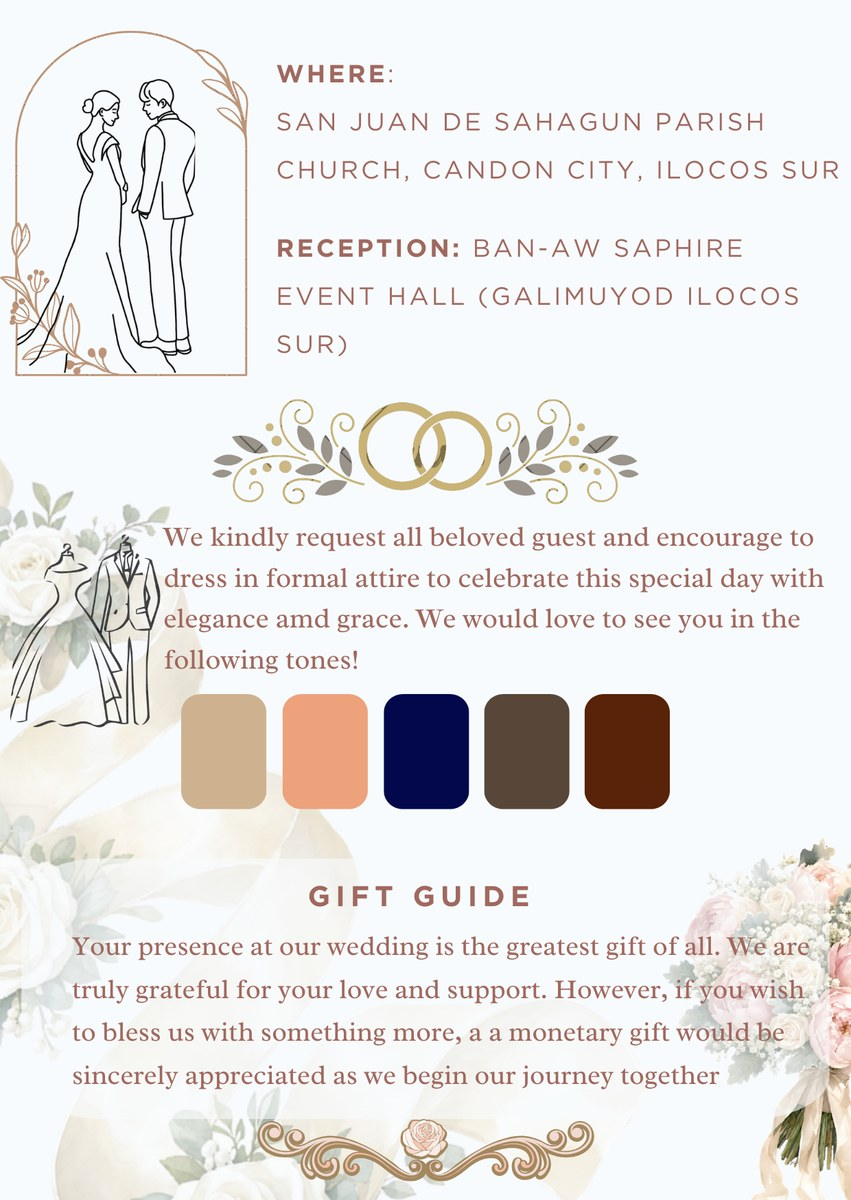
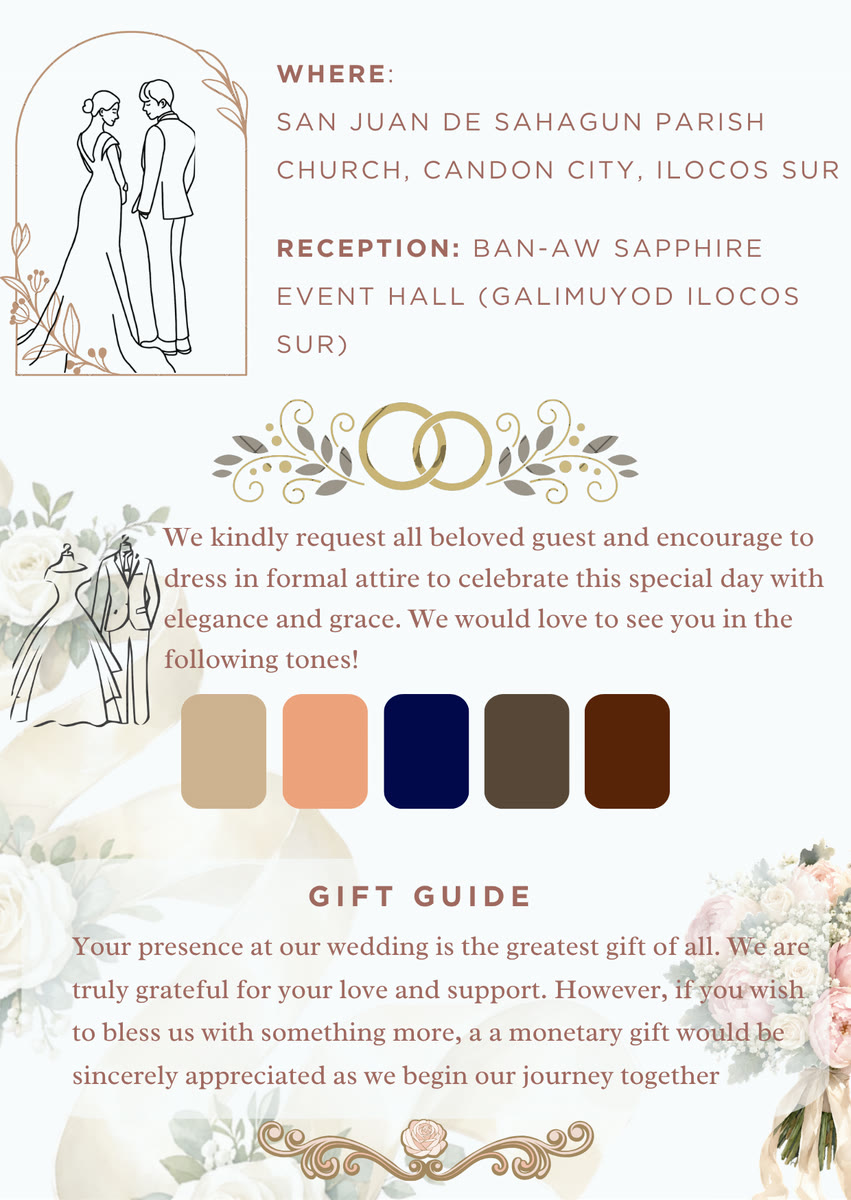
Add RSVP form to both invitations, backed by a Google Sheet
- Guests reply from the Details sheet: name, accept or decline, companions
  with names, optional mobile number and message; seats = 1 + companions
- rsvp/Code.gs is the Apps Script web app that records replies in a
  Responses sheet and keeps a Summary of attending, declined and seats per
  event; rsvp/README.md walks through the 5-minute setup
- A name may reply once per event; duplicates are rejected, while the
  device that sent the first reply can still change it
- rsvp-config.js holds the web app URL; while empty, the form stays hidden

Changed region(s): [[0.3361, 0.4933, 0.9471, 0.555], [0.7944, 0.185, 0.886, 0.2158], [0.2444, 0.5242, 0.275, 0.555]]

diff --git a/rsvp.js b/rsvp.js
@@ -1,0 +1,136 @@
+/* RSVP form, shared by the wedding and christening invitations.
+   Reads window.RSVP_URL (rsvp-config.js) and window.RSVP_EVENT ('wedding' | 'christening').
+   Posts JSON to the Google Apps Script web app and remembers the guest's answer on this device. */
+(() => {
+  const url = (window.RSVP_URL || '').trim();
+  const event = window.RSVP_EVENT || 'wedding';
+  const box = document.querySelector('.rsvp');
+  if (!url || !box) return;
+
+  const MAX = 10;
+  const storeKey = `rsvp:${event}`;
+  const h = (tag, attrs = {}, ...kids) => {
+    const el = document.createElement(tag);
+    for (const [k, v] of Object.entries(attrs)) { if (k === 'class') el.className = v; else if (k === 'text') el.textContent = v; else el.setAttribute(k, v); }
+    for (const k of kids) el.append(k);
+    return el;
+  };
+
+  /* Markup */
+  const form = h('form', { class: 'rsvp-form', novalidate: '' });
+  const nameIn = h('input', { name: 'name', autocomplete: 'name', required: '', maxlength: '80', placeholder: 'Full name' });
+  const yes = h('input', { type: 'radio', name: 'attending', value: 'yes', required: '' });
+  const no = h('input', { type: 'radio', name: 'attending', value: 'no' });
+  const countOut = h('output', { name: 'count', text: '0' });
+  const minus = h('button', { type: 'button', 'data-d': '-1', 'aria-label': 'Fewer guests', text: '−' });
+  const plus = h('button', { type: 'button', 'data-d': '1', 'aria-label': 'More guests', text: '+' });
+  const names = h('div', { class: 'rf-names' });
+  const seatsB = h('b', { text: '1' });
+  const companions = h('div', { class: 'rf-companions', hidden: '' },
+    h('div', { class: 'rf-field rf-step' }, h('span', { text: 'Guests coming with you' }), h('div', { class: 'rf-stepper' }, minus, countOut, plus)),
+    names,
+    h('p', { class: 'rf-seats' }, 'Seats to reserve for you: ', seatsB));
+  const phoneIn = h('input', { name: 'phone', type: 'tel', inputmode: 'tel', autocomplete: 'tel', maxlength: '40', placeholder: '09xx xxx xxxx' });
+  const msgIn = h('textarea', { name: 'message', rows: '2', maxlength: '500', placeholder: 'A note for the family' });
+  const submit = h('button', { class: 'rf-submit', type: 'submit', text: 'Send RSVP' });
+  const status = h('p', { class: 'rf-status', role: 'status', 'aria-live': 'polite' });
+  form.append(
+    h('label', { class: 'rf-field' }, h('span', { text: 'Your name' }), nameIn),
+    h('fieldset', { class: 'rf-choice' }, h('legend', { text: 'Will you be there?' }),
+      h('div', { class: 'opts' },
+        h('label', {}, yes, h('span', { text: 'Joyfully accept' })),
+        h('label', {}, no, h('span', { text: 'Regretfully decline' })))),
+    companions,
+    h('label', { class: 'rf-field' }, h('span', { text: 'Mobile number (optional)' }), phoneIn),
+    h('label', { class: 'rf-field' }, h('span', { text: 'Message (optional)' }), msgIn),
+    submit, status);
+  const done = h('div', { class: 'rf-done', hidden: '' });
+
+  const intro = box.querySelector('h3 + p') || box.querySelector('h3');
+  intro.after(done, form);
+  const firstContact = box.querySelector('.contact');
+  if (firstContact) firstContact.before(h('p', { class: 'rf-or', text: 'Questions? Message us directly.' }));
+
+  /* Companions stepper */
+  let count = 0;
+  function setCount(n, keep = []) {
+    count = Math.max(0, Math.min(MAX, n));
+    countOut.textContent = String(count);
+    minus.disabled = count === 0; plus.disabled = count === MAX;
+    const existing = [...names.querySelectorAll('input')].map(i => i.value);
+    names.replaceChildren(...Array.from({ length: count }, (_, i) =>
+      h('input', { name: 'companion', maxlength: '80', 'aria-label': `Name of guest ${i + 1}`, placeholder: `Name of guest ${i + 1}`, autocomplete: 'off', value: keep[i] ?? existing[i] ?? '' })));
+    seatsB.textContent = String(1 + count);
+  }
+  minus.addEventListener('click', () => setCount(count - 1));
+  plus.addEventListener('click', () => setCount(count + 1));
+  function syncAttending() { companions.hidden = !yes.checked; }
+  yes.addEventListener('change', syncAttending); no.addEventListener('change', syncAttending);
+  setCount(0);
+
+  /* Remembered answer */
+  function read() { try { return JSON.parse(localStorage.getItem(storeKey) || 'null'); } catch (e) { return null; } }
+  function write(v) { try { localStorage.setItem(storeKey, JSON.stringify(v)); } catch (e) {} }
+  function showDone(r) {
+    const when = r.at ? new Date(r.at).toLocaleDateString(undefined, { day: 'numeric', month: 'long' }) : '';
+    const line = r.attending === 'yes'
+      ? h('p', {}, 'Thank you, ', h('b', { text: r.name }), `! We have noted `, h('b', { text: `${r.seats} seat${r.seats === 1 ? '' : 's'}` }), ' for you.')
+      : h('p', {}, 'Thank you, ', h('b', { text: r.name }), '. We will miss you and have noted your reply.');
+    const edit = h('button', { type: 'button', text: 'Change my reply' });
+    edit.addEventListener('click', () => { done.hidden = true; form.hidden = false; nameIn.focus(); });
+    done.replaceChildren(line, h('p', { class: 'rf-status', text: when ? `Sent ${when}. You can change it any time.` : 'You can change it any time.' }), edit);
+    done.hidden = false; form.hidden = true;
+  }
+  const saved = read();
+  if (saved && saved.name) {
+    nameIn.value = saved.name; (saved.attending === 'yes' ? yes : no).checked = true; syncAttending();
+    setCount(saved.count || 0, saved.companions || []); phoneIn.value = saved.phone || ''; msgIn.value = saved.message || '';
+    showDone(saved);
+  }
+
+  /* Clear an error as soon as the guest starts fixing it */
+  form.addEventListener('input', () => {
+    if (status.classList.contains('err')) { status.className = 'rf-status'; status.textContent = ''; }
+    if (nameIn.value.trim()) nameIn.removeAttribute('aria-invalid');
+  });
+
+  /* Submit */
+  form.addEventListener('submit', async e => {
+    e.preventDefault();
+    status.className = 'rf-status'; status.textContent = '';
+    const name = nameIn.value.trim();
+    nameIn.setAttribute('aria-invalid', name ? 'false' : 'true');
+    if (!name) { status.classList.add('err'); status.textContent = 'Please tell us your name.'; nameIn.focus(); return; }
+    if (!yes.checked && !no.checked) { status.classList.add('err'); status.textContent = 'Please choose whether you can come.'; yes.focus(); return; }
+    const attending = yes.checked ? 'yes' : 'no';
+    const list = attending === 'yes' ? [...names.querySelectorAll('input')].map(i => i.value.trim()).filter(Boolean) : [];
+    /* Duplicate names within this one reply */
+    const norm = s => s.toLowerCase().replace(/\s+/g, ' ');
+    const seen = new Set([norm(name)]);
+    for (const n of list) {
+      if (seen.has(norm(n))) {
+        status.classList.add('err');
+        status.textContent = norm(n) === norm(name) ? 'You are already counted. Please list only the guests coming with you.' : `"${n}" is listed twice. Each guest only needs one seat.`;
+        [...names.querySelectorAll('input')].find(i => norm(i.value.trim()) === norm(n))?.focus();
+        return;
+      }
+      seen.add(norm(n));
+    }
+    const prev = read();
+    const payload = { event, name, attending, count: attending === 'yes' ? count : 0, companions: list, phone: phoneIn.value.trim(), message: msgIn.value.trim(), token: prev && prev.token || '' };
+    submit.disabled = true; status.textContent = 'Sending…';
+    try {
+      const res = await fetch(url, { method: 'POST', body: JSON.stringify(payload) });  // no custom headers: no CORS preflight
+      const data = await res.json();
+      if (!data.ok) { const e = new Error(data.error || 'The reply could not be saved.'); e.code = data.code; throw e; }
+      const rec = Object.assign({}, payload, { seats: data.seats, token: data.token || payload.token, at: Date.now() });
+      write(rec); showDone(rec);
+    } catch (err) {
+      status.classList.add('err');
+      status.textContent = err.code === 'duplicate'
+        ? `A reply under the name "${name}" was already sent. If that was you and your plans changed, please message us at the numbers below.`
+        : 'Sorry, your reply did not go through. Please try again, or message us at the numbers below.';
+      if (err.code === 'duplicate') { nameIn.setAttribute('aria-invalid', 'true'); nameIn.focus(); }
+    } finally { submit.disabled = false; }
+  });
+})();

diff --git a/rsvp.css b/rsvp.css
@@ -1,0 +1,39 @@
+/* RSVP form inside the Details sheet. Each page sets --rf-ink, --rf-soft, --rf-line, --rf-field, --rf-gold, --rf-font. */
+.rsvp-form{display:grid;gap:14px;margin:4px 0 16px}
+.rf-field{display:grid;gap:6px}
+.rf-field > span,.rf-choice legend{font:600 12px/1.3 var(--rf-font);letter-spacing:.04em;color:var(--rf-soft)}
+.rf-field input,.rf-field textarea{font:16px/1.4 var(--rf-font);color:var(--rf-ink);background:var(--rf-field);
+  border:1px solid var(--rf-line);border-radius:10px;padding:10px 12px;width:100%;box-sizing:border-box;min-height:44px}
+.rf-field textarea{resize:vertical}
+.rf-field input:focus-visible,.rf-field textarea:focus-visible,.rf-choice input:focus-visible + span{outline:2px solid var(--rf-gold);outline-offset:1px}
+.rf-field input[aria-invalid="true"]{border-color:#b3463a}
+.rf-choice{border:0;margin:0;padding:0;display:grid;gap:6px}
+.rf-choice .opts{display:grid;grid-template-columns:1fr 1fr;gap:8px}
+.rf-choice label{position:relative;display:block}
+.rf-choice input{position:absolute;opacity:0;inset:0;margin:0}
+.rf-choice span{display:flex;align-items:center;justify-content:center;min-height:44px;padding:8px 10px;text-align:center;
+  font:600 14px/1.25 var(--rf-font);color:var(--rf-ink);background:var(--rf-field);border:1px solid var(--rf-line);border-radius:10px;cursor:pointer}
+.rf-choice input:checked + span{background:var(--rf-ink);color:#fff;border-color:var(--rf-ink)}
+.rf-companions{display:grid;gap:10px;padding:12px;border-radius:12px;background:var(--rf-field);border:1px solid var(--rf-line)}
+.rf-step{display:flex;align-items:center;justify-content:space-between;gap:10px}
+.rf-stepper{display:inline-flex;align-items:center;gap:6px}
+.rf-stepper button{width:40px;height:40px;border-radius:999px;border:1px solid var(--rf-line);background:#fff;color:var(--rf-ink);font:600 20px/1 var(--rf-font);cursor:pointer}
+.rf-stepper button:disabled{opacity:.35;cursor:default}
+.rf-stepper output{min-width:28px;text-align:center;font:700 18px/1 var(--rf-font);color:var(--rf-ink);font-variant-numeric:tabular-nums}
+.rf-names{display:grid;gap:8px}
+.rf-names input{font:15px/1.4 var(--rf-font);color:var(--rf-ink);background:#fff;border:1px solid var(--rf-line);border-radius:10px;padding:9px 12px;width:100%;box-sizing:border-box;min-height:42px}
+.rf-seats{margin:0;font:14px/1.4 var(--rf-font);color:var(--rf-soft)}
+.rf-seats b{color:var(--rf-ink);font-weight:700}
+.rf-submit{font:600 14px/1 var(--rf-font);letter-spacing:.06em;text-transform:uppercase;color:#fff;background:var(--rf-ink);
+  border:1px solid var(--rf-ink);border-radius:999px;height:48px;padding:0 20px;cursor:pointer}
+.rf-submit:disabled{opacity:.6;cursor:default}
+.rf-submit:focus-visible{outline:2px solid var(--rf-gold);outline-offset:2px}
+.rf-status{margin:0;font:14px/1.45 var(--rf-font);color:var(--rf-soft);min-height:1.2em}
+.rf-status.ok{color:var(--rf-ink);font-weight:600}
+.rf-status.err{color:#b3463a}
+.rf-done{display:grid;gap:10px;padding:14px;border-radius:12px;background:var(--rf-field);border:1px solid var(--rf-line)}
+.rf-done p{margin:0;font:15px/1.45 var(--rf-font);color:var(--rf-ink)}
+.rf-done p b{font-weight:700}
+.rf-done button{justify-self:start;font:600 12px/1 var(--rf-font);letter-spacing:.06em;text-transform:uppercase;color:var(--rf-ink);
+  background:#fff;border:1px solid var(--rf-line);border-radius:999px;height:36px;padding:0 14px;cursor:pointer}
+.rf-or{margin:14px 0 2px;font:13px/1.4 var(--rf-font);color:var(--rf-soft)}

diff --git a/dedication/index.html b/dedication/index.html
@@ -29,6 +29,7 @@
     />
     <link rel="preconnect" href="https://fonts.googleapis.com" />
     <link rel="preconnect" href="https://fonts.gstatic.com" crossorigin />
+    <link rel="stylesheet" href="../rsvp.css" />
     <link
       rel="stylesheet"
       href="https://fonts.googleapis.com/css2?family=Fredoka:wght@400;500;600&family=Nunito:ital,wght@0,400;0,600;0,700;1,400&display=swap"
@@ -51,6 +52,12 @@
         --panel: #fbfdff;
         --f-display: "Fredoka", "Varela Round", "Nunito", system-ui, sans-serif;
         --f-body: "Nunito", "Avenir Next", "Segoe UI", system-ui, sans-serif;
+        --rf-ink: var(--slate);
+        --rf-soft: var(--slate-soft);
+        --rf-line: rgba(47, 74, 99, 0.22);
+        --rf-field: #fff;
+        --rf-gold: var(--gold-lo);
+        --rf-font: var(--f-body);
       }
       html,
       body {
@@ -877,7 +884,7 @@
           </div>
           <div>
             <dt>Reception</dt>
-            <dd>Ban-aw Saphire Event Hall, Galimuyod, Ilocos Sur</dd>
+            <dd>Ban-aw Sapphire Event Hall, Galimuyod, Ilocos Sur</dd>
           </div>
         </dl>
         <p class="outro">
@@ -931,7 +938,7 @@
           <div class="t">After<small>Reception</small></div>
           <div>
             <h3>Reception</h3>
-            <p>Ban-aw Saphire Event Hall, Galimuyod, Ilocos Sur</p>
+            <p>Ban-aw Sapphire Event Hall, Galimuyod, Ilocos Sur</p>
             <a
               class="link"
               target="_blank"
@@ -1417,11 +1424,16 @@
           location:
             "San Juan de Sahagun Parish Church, Candon City, Ilocos Sur",
           details:
-            "Christening of Kyle Quenzo 3:30 PM at San Juan de Sahagun Parish Church, Candon City.\nReception at Ban-aw Saphire Event Hall, Galimuyod, Ilocos Sur.",
+            "Christening of Kyle Quenzo 3:30 PM at San Juan de Sahagun Parish Church, Candon City.\nReception at Ban-aw Sapphire Event Hall, Galimuyod, Ilocos Sur.",
         });
         $("calLink").href =
           "https://calendar.google.com/calendar/render?" + q.toString();
       })();
     </script>
+    <script>
+      window.RSVP_EVENT = "christening";
+    </script>
+    <script src="../rsvp-config.js"></script>
+    <script src="../rsvp.js"></script>
   </body>
 </html>

diff --git a/index.html b/index.html
@@ -29,6 +29,7 @@
     />
     <link rel="preconnect" href="https://fonts.googleapis.com" />
     <link rel="preconnect" href="https://fonts.gstatic.com" crossorigin />
+    <link rel="stylesheet" href="rsvp.css" />
     <link
       rel="stylesheet"
       href="https://fonts.googleapis.com/css2?family=Cormorant+Garamond:ital,wght@0,400;0,500;0,600;1,400;1,500&family=Jost:wght@400;500&family=Pinyon+Script&display=swap"
@@ -54,6 +55,12 @@
         --f-serif:
           "Cormorant Garamond", "Cormorant", Garamond, "Times New Roman", serif;
         --f-ui: "Jost", "Avenir Next", "Segoe UI", system-ui, sans-serif;
+        --rf-ink: var(--rose-deep);
+        --rf-soft: var(--ink-soft);
+        --rf-line: rgba(126, 74, 64, 0.25);
+        --rf-field: var(--panel);
+        --rf-gold: var(--gold-lo);
+        --rf-font: var(--f-ui);
       }
       html,
       body {
@@ -700,7 +707,7 @@
           <div class="t">After<small>Reception</small></div>
           <div>
             <h3>Reception</h3>
-            <p>Ban-aw Saphire Event Hall, Galimuyod, Ilocos Sur</p>
+            <p>Ban-aw Sapphire Event Hall, Galimuyod, Ilocos Sur</p>
             <a
               class="link"
               target="_blank"
@@ -1175,11 +1182,16 @@
           location:
             "San Juan de Sahagun Parish Church, Candon City, Ilocos Sur",
           details:
-            "Ceremony 1:30 PM at San Juan de Sahagun Parish Church, Candon City.\nChild dedication of Kyle Quenzo 3:30 PM.\nReception at Ban-aw Saphire Event Hall, Galimuyod, Ilocos Sur.\nFormal attire.",
+            "Ceremony 1:30 PM at San Juan de Sahagun Parish Church, Candon City.\nChild dedication of Kyle Quenzo 3:30 PM.\nReception at Ban-aw Sapphire Event Hall, Galimuyod, Ilocos Sur.\nFormal attire.",
         });
         $("calLink").href =
           "https://calendar.google.com/calendar/render?" + q.toString();
       })();
     </script>
+    <script>
+      window.RSVP_EVENT = "wedding";
+    </script>
+    <script src="rsvp-config.js"></script>
+    <script src="rsvp.js"></script>
   </body>
 </html>

diff --git a/rsvp-config.js b/rsvp-config.js
@@ -1,0 +1,2 @@
+/* Paste the Google Apps Script web app URL here (see rsvp/README.md). Leave empty to hide the RSVP form. */
+window.RSVP_URL = "";

diff --git a/rsvp/README.md b/rsvp/README.md
@@ -1,0 +1,45 @@
+# RSVP setup
+
+Guests fill in the RSVP form inside the **Details** sheet of each invitation. Responses land in a
+Google Sheet you own. The Sheet's **Summary** tab shows, per event and in total, how many parties
+responded, how many are attending or declined, and how many seats to reserve.
+
+Until the web app URL is filled in, the invitations show only the contact numbers, so nothing
+breaks before setup.
+
+## One-time setup (about 5 minutes)
+
+1. Create a new Google Sheet at https://sheets.new and name it, for example, `RSVPs`.
+2. In the Sheet, open **Extensions > Apps Script**. Delete the sample code in `Code.gs`, paste the
+   contents of `rsvp/Code.gs` from this repo, and press **Save**.
+3. In the toolbar, choose the function **setup** and press **Run**. Approve the permission prompt
+   (it only touches this spreadsheet). This creates the `Responses` and `Summary` tabs.
+4. Press **Deploy > New deployment**. Click the gear next to "Select type" and choose **Web app**.
+   - Description: `rsvp`
+   - Execute as: **Me**
+   - Who has access: **Anyone**
+   Press **Deploy**, approve once more, and copy the **Web app URL** (it ends in `/exec`).
+5. Open `rsvp-config.js` in this repo and paste the URL between the quotes:
+   ```js
+   window.RSVP_URL = "https://script.google.com/macros/s/.../exec";
+   ```
+6. Commit and push. The RSVP form appears in both invitations on the next page load.
+
+To check the deployment, open the web app URL in a browser. It should show `{"ok":true,"service":"rsvp"}`.
+
+## Reading the responses
+
+- **Responses** tab: one row per guest party. Columns: Submitted, Updated, Event (`wedding` or
+  `christening`), Name, Attending, Companions (count), Companion names, Seats (1 + companions when
+  attending, 0 when declining), Phone, Message.
+- **Summary** tab: totals per event and overall. "Seats to reserve" is the number of chairs you need.
+- A name can reply only once per event. If someone sends a second reply under a name that already
+  replied, the form tells them a reply exists and asks them to message you instead, so nobody is
+  counted twice. The device that sent the first reply can still change it (the form shows a
+  "Change my reply" button there). The hidden Token column is what makes that work; leave it alone.
+- If you need to correct a row by hand, just edit it in the Sheet. The Summary updates itself.
+
+## Changing the script later
+
+After editing `Code.gs`, use **Deploy > Manage deployments**, press the pencil icon, set Version to
+**New version**, and press **Deploy**. The URL stays the same.
